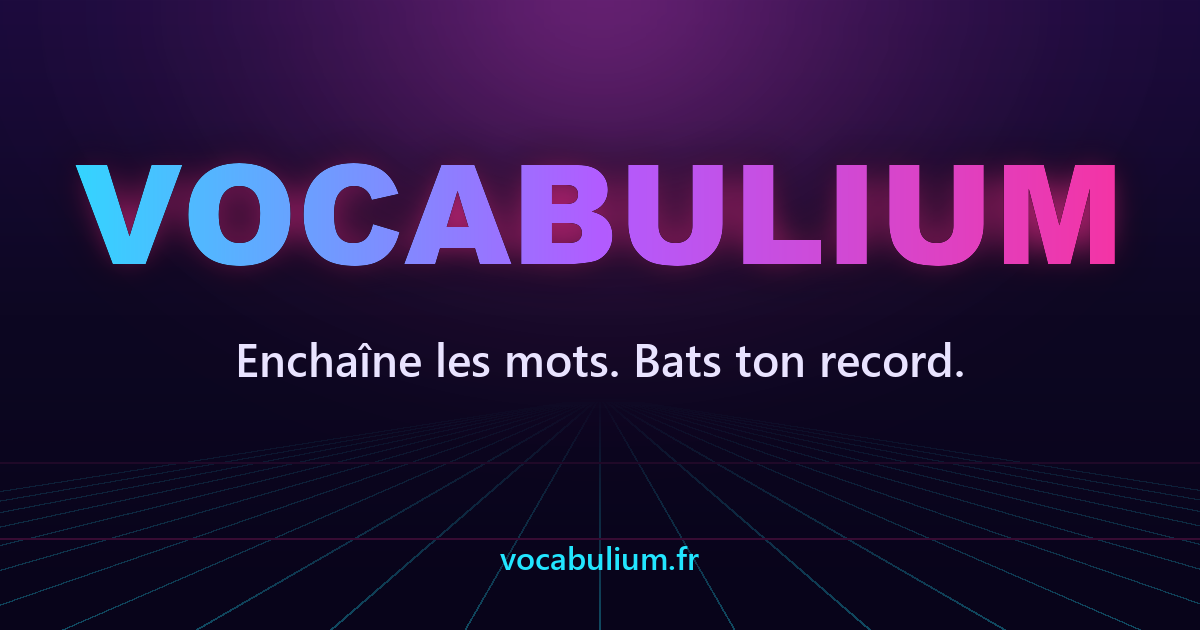
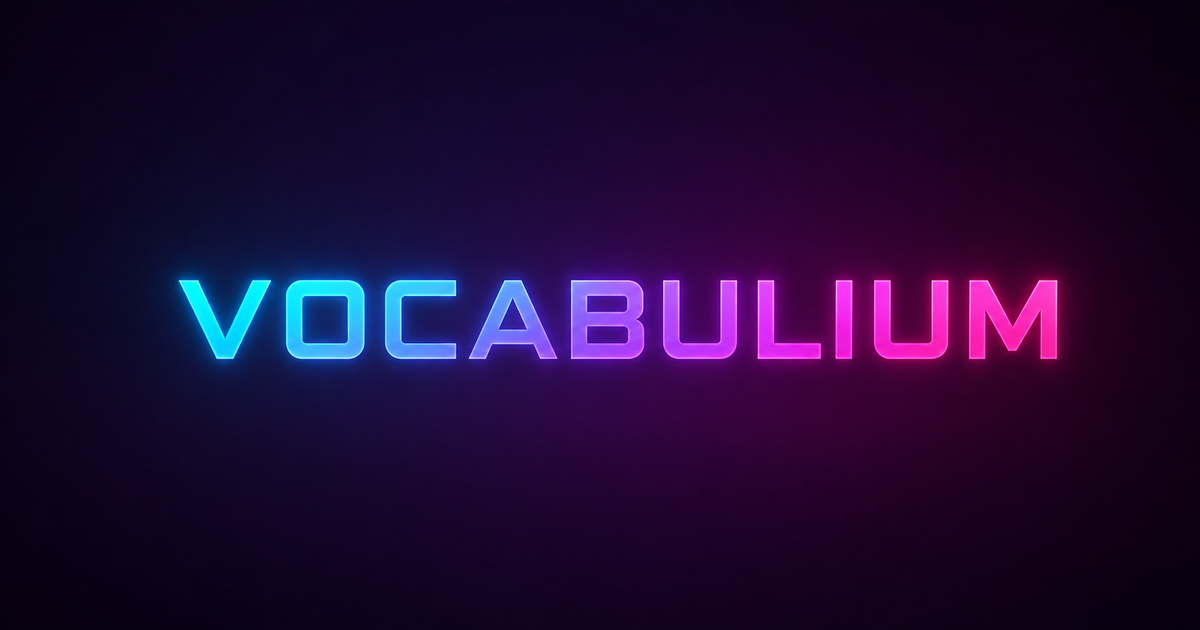
Image

diff --git a/web/index.html b/web/index.html
@@ -15,7 +15,7 @@
   <meta property="og:url" content="https://www.vocabulium.fr/">
   <meta property="og:title" content="Vocabulium — jeu de mots à enchaîner">
   <meta property="og:description" content="Enchaîne des mots liés par le sens, contre la montre et les lettres interdites. Bats ton record et défie tes amis.">
-  <meta property="og:image" content="https://www.vocabulium.fr/og.png?v=1">
+  <meta property="og:image" content="https://www.vocabulium.fr/og.png?v=2">
   <meta property="og:image:width" content="1200">
   <meta property="og:image:height" content="630">
   <meta property="og:image:alt" content="Vocabulium — jeu de mots néon">
@@ -24,7 +24,7 @@
   <meta name="twitter:card" content="summary_large_image">
   <meta name="twitter:title" content="Vocabulium — jeu de mots à enchaîner">
   <meta name="twitter:description" content="Enchaîne des mots liés par le sens, contre la montre et les lettres interdites. Bats ton record.">
-  <meta name="twitter:image" content="https://www.vocabulium.fr/og.png?v=1">
+  <meta name="twitter:image" content="https://www.vocabulium.fr/og.png?v=2">
 
   <link rel="icon" type="image/svg+xml" href="/favicon.svg?v=46">
   <link rel="apple-touch-icon" href="/apple-touch-icon.png">

diff --git a/web/guide.html b/web/guide.html
@@ -13,7 +13,7 @@
   <meta property="og:url" content="https://www.vocabulium.fr/guide.html">
   <meta property="og:title" content="Comment jouer à Vocabulium — règles, astuces et FAQ">
   <meta property="og:description" content="Les règles de Vocabulium, des astuces pour marquer plus de points, et les réponses aux questions fréquentes.">
-  <meta property="og:image" content="https://www.vocabulium.fr/og.png?v=1">
+  <meta property="og:image" content="https://www.vocabulium.fr/og.png?v=2">
   <link rel="icon" type="image/svg+xml" href="/favicon.svg?v=46">
   <link rel="apple-touch-icon" href="/apple-touch-icon.png">
   <style>
